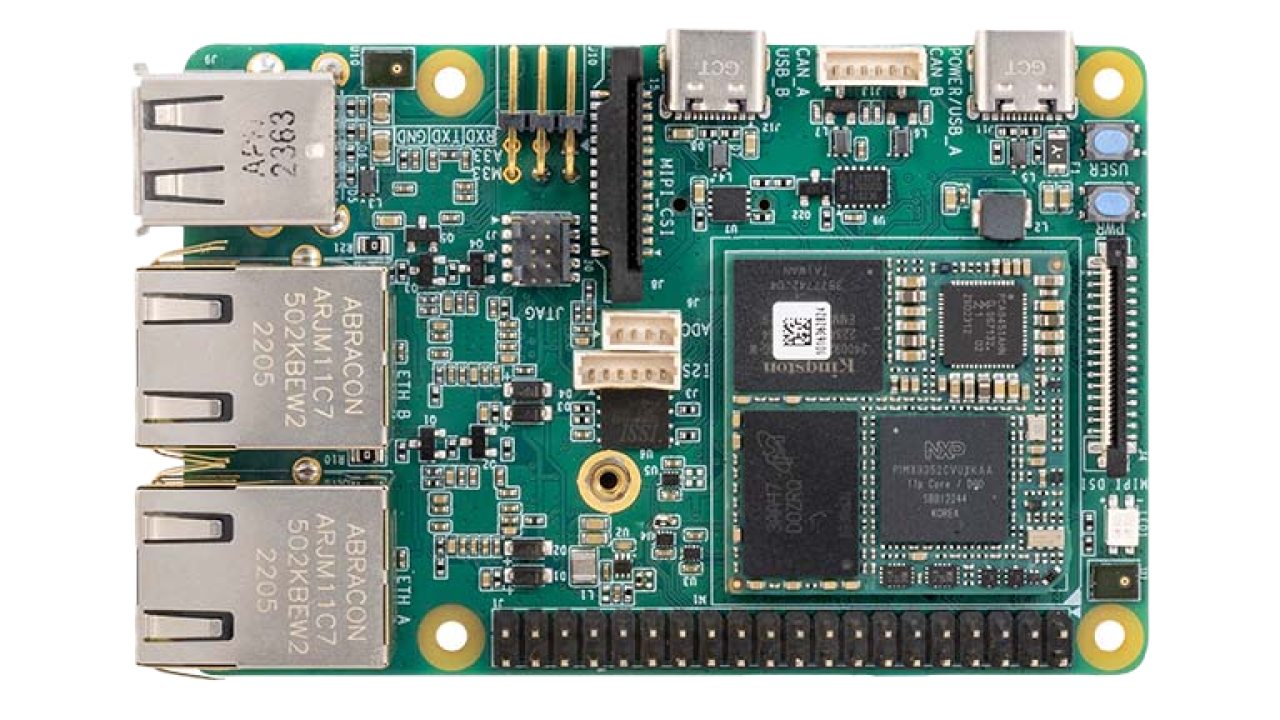
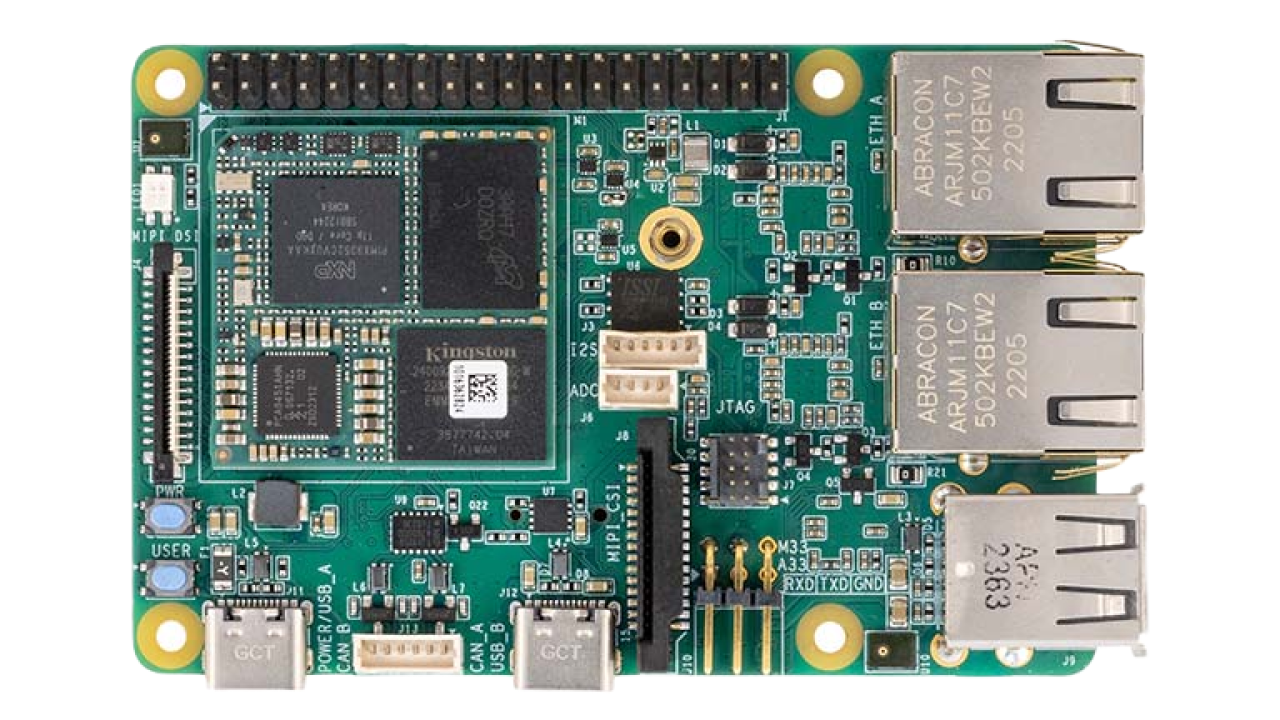
Add links to related repos.

diff --git a/README.md b/README.md
@@ -47,7 +47,7 @@ The NXP i.MX93 processor is architected with 3 separate processing domains:
 MaaXBoard OMS93 follows the same form factor as the Rasperry Pi enabling seamless integration of the hardware into existing platforms using this standard.
 
 <p align="center">
-    <img src=".assets/maaxboardosm93-top.png" width="500" style="transform: rotate(180deg)">
+    <img src=".assets/maaxboardosm93-top.png" width="500">
 </p>
 
 <p align="center">
@@ -61,7 +61,7 @@ MaaXBoard OMS93 follows the same form factor as the Rasperry Pi enabling seamles
 An M.2 key-E connector on back of the board facilitates easy integration of optional NXP based tri-radio M.2 module solutions, for concurrent Wi-Fi 6, Bluetooth (5.3) and 802.15.4 wireless operation.
 
 <p align="center">
-    <img src=".assets/maaxboardosm93-iso2.png" width="500">
+    <img src=".assets/maaxboardosm93-bottom.png" width="500">
 </p>
 
 Installed onto the board is the MSC-OSM-SF-IMX93 solder down module. 
@@ -73,20 +73,30 @@ Installed onto the board is the MSC-OSM-SF-IMX93 solder down module.
 ### Memory & Storage
 
 ### Software & BSP
+
 Coming Soon!
 
 ### Board Support Package
 
+Coming Soon!
+
 ### Image Packages
 
+Coming Soon!
+
 ### Accessories
+
 Coming soon!
 
 ### Related Repositories
+- [MaaXBoard Metalayer](https://github.com/Avnet/meta-maaxboard): Contains the Yocto metalayer for MaaXBoards including MaaXBoard OSM93 as well as **building information**
+- [U-boot source code](https://github.com/Avnet/uboot-imx/tree/dev_maaxboard-osm93_lf-6.1.22-2.0.0): Contains the source code for U-Boot, a boot loader for Embedded boards.
+- [Linux kernel source code](https://github.com/Avnet/linux-imx/tree/dev_maaxboard-osm93_lf-6.1.22-2.0.0)): Contains the source code for the Linux kernel.
 
 
 ### Demos
 
+Demos created for the MaaXboard OMS93 can be found on the the dedicated [Maaxboard-OSM93-Demos](https://github.com/Avnet/Maaxboard-OSM93-Demos) page. 
 
 ### Related Blogs
 Coming Soon!
@@ -96,7 +106,7 @@ Coming Soon!
 ### Product Brief
 - [Block Diagram](https://www.avnet.com/wps/wcm/connect/onesite/7cf18444-2d53-4061-9eb6-4500d34a3687/MaaXBoard_OSM93_BlockDiag_ProdBrief_18Mar2024.pdf?MOD=AJPERES&CACHEID=ROOTWORKSPACE.Z18_NA5A1I41L0ICD0ABNDMDDG0000-7cf18444-2d53-4061-9eb6-4500d34a3687-oVy9irI)
 
--[Product Brief](https://www.avnet.com/wps/wcm/connect/onesite/710506b4-a98c-453b-91a9-cade51251c3c/FY24_1345_MaaXBoard_OSM93_Product_Brief_R6.pdf?MOD=AJPERES&CACHEID=ROOTWORKSPACE.Z18_NA5A1I41L0ICD0ABNDMDDG0000-710506b4-a98c-453b-91a9-cade51251c3c-oX54Gw0)
+- [Product Brief](https://www.avnet.com/wps/wcm/connect/onesite/710506b4-a98c-453b-91a9-cade51251c3c/FY24_1345_MaaXBoard_OSM93_Product_Brief_R6.pdf?MOD=AJPERES&CACHEID=ROOTWORKSPACE.Z18_NA5A1I41L0ICD0ABNDMDDG0000-710506b4-a98c-453b-91a9-cade51251c3c-oX54Gw0)
 
 ### Getting Started Guide
 Coming Soon!
@@ -105,4 +115,5 @@ Coming Soon!
 Coming Soon!
 
 ### Release Notes
+Coming Soon!
 
